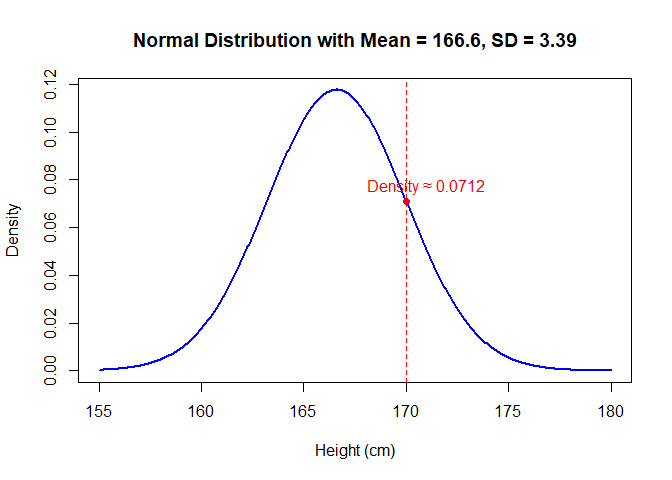
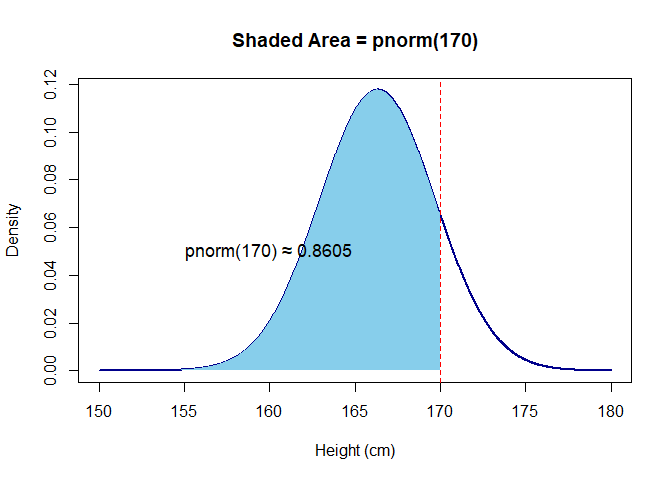
Normal dist updated

diff --git a/chapters/Probability-Distribution/Normal-Distribution.md b/chapters/Probability-Distribution/Normal-Distribution.md
@@ -404,6 +404,17 @@ Used to find **cutoff scores** or **percentile thresholds**.
 
     ## [1] 169.8512
 
+![](Normal-Distribution_files/figure-markdown_strict/unnamed-chunk-15-1.png)
+
+-   The **green curve** is the normal distribution.
+-   The **shaded region** shows the area under the curve from the far
+    left up to the **82.7th percentile**.
+-   The **red vertical** line marks the **quantile value (~170 cm)**,
+    which means:
+
+> About **82.7% of students** have heights **less than or equal to 170
+> cm**.
+
 -   So, if we want the height at the 82.7th percentile, it’s 170 cm.
 
 ### Random Number Generator `rnorm(n, mean, sd)`
@@ -500,7 +511,7 @@ $$
 
 #### Standard Normal Curve
 
-![](Normal-Distribution_files/figure-markdown_strict/unnamed-chunk-16-1.png)
+![](Normal-Distribution_files/figure-markdown_strict/unnamed-chunk-17-1.png)
 
 ### Real-Life Uses
 
